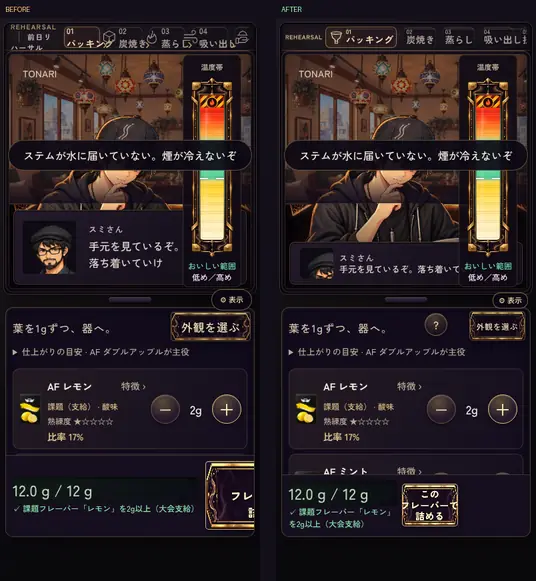
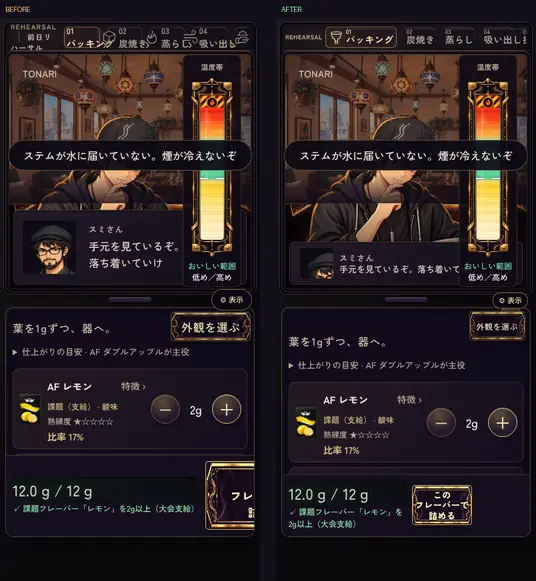
DS風: 3択がPCの縦積み341pxでも収まる高さに、オーバーレイ検査でタッチバーの設定が開いたら閉じる
- 選択肢44px・間隔6px、本文枠は18px下げて高さ96px〜34%に
- ds_overlay_layers.mjs: 会話中のタッチバー（AUTO/SKIP/LOG/用語/設定）を押した場合の設定モーダルを閉じて続行
- 比較画像を最終CSSで更新

Claude-Session: https://claude.ai/code/session_01ACPhX5YUH71tKT8djjFt8S

Changed region(s): [[0.5373, 0.5267, 0.9851, 0.8365], [0.7463, 0.8055, 0.8955, 0.9294], [0.5373, 0.8985, 0.6866, 0.9294]]

diff --git a/remake/css/game-ds.css b/remake/css/game-ds.css
@@ -529,15 +529,16 @@ body.game-ds .hud-exp .hx-lv { min-width: 0; }
 }
 :root[data-ds-layout="stacked"] body.game-ds .game-layout-toolbar[open] { top: calc(var(--ds-cy) + 6px) !important; }
 
-/* 会話：3択が下画面の中に収まる高さ。短い画面でも本文が2行読める。 */
-body.game-ds .vn-choices, body.game-ds .vn-choices:has(> .vn-choice:nth-child(2):last-child) { gap: 8px; }
-body.game-ds .vn-choice { min-height: 48px; padding: 10px 14px; font-size: 17px; }
+/* 会話：3択が下画面の中に収まる高さ（PCの縦積み341pxでも3つ見える）。短い画面でも本文が2行読める。 */
+body.game-ds .vn-choices, body.game-ds .vn-choices:has(> .vn-choice:nth-child(2):last-child) { gap: 6px; }
+body.game-ds .vn-choice { min-height: 44px; padding: 8px 14px; font-size: 17px; }
 body.game-ds #vn:has(.vn-choices.show) .vn-box {
-  height: clamp(104px, calc((var(--ds-ch) - var(--ds-touchbar)) * .38), 200px);
+  top: calc(var(--ds-cy) + 18px);
+  height: clamp(96px, calc((var(--ds-ch) - var(--ds-touchbar)) * .34), 200px);
 }
 body.game-ds #vn:has(.vn-choices.show) .vn-choices {
-  top: calc(var(--ds-cy) + 26px + clamp(104px, calc((var(--ds-ch) - var(--ds-touchbar)) * .38), 200px) + 10px);
-  max-height: calc(var(--ds-ch) - var(--ds-touchbar) - clamp(104px, calc((var(--ds-ch) - var(--ds-touchbar)) * .38), 200px) - 44px);
+  top: calc(var(--ds-cy) + 18px + clamp(96px, calc((var(--ds-ch) - var(--ds-touchbar)) * .34), 200px) + 8px);
+  max-height: calc(var(--ds-ch) - var(--ds-touchbar) - clamp(96px, calc((var(--ds-ch) - var(--ds-touchbar)) * .34), 200px) - 32px);
 }
 body.game-ds #vn:has(.vn-choices.show) .vn-text { font-size: 18px; line-height: 1.5; min-height: 0; }
 @media (max-height: 640px) {
